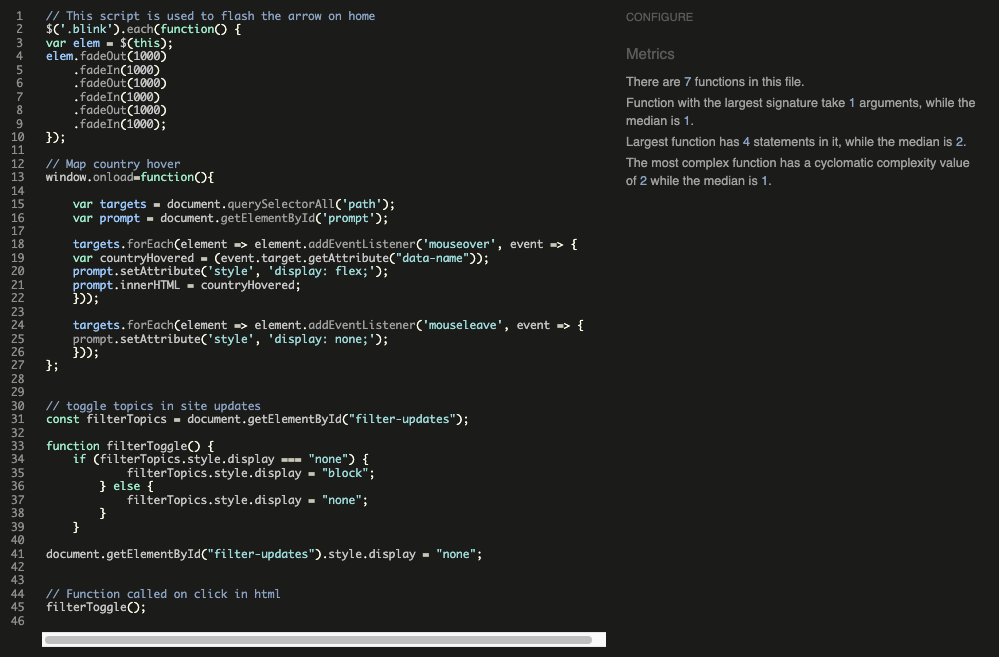
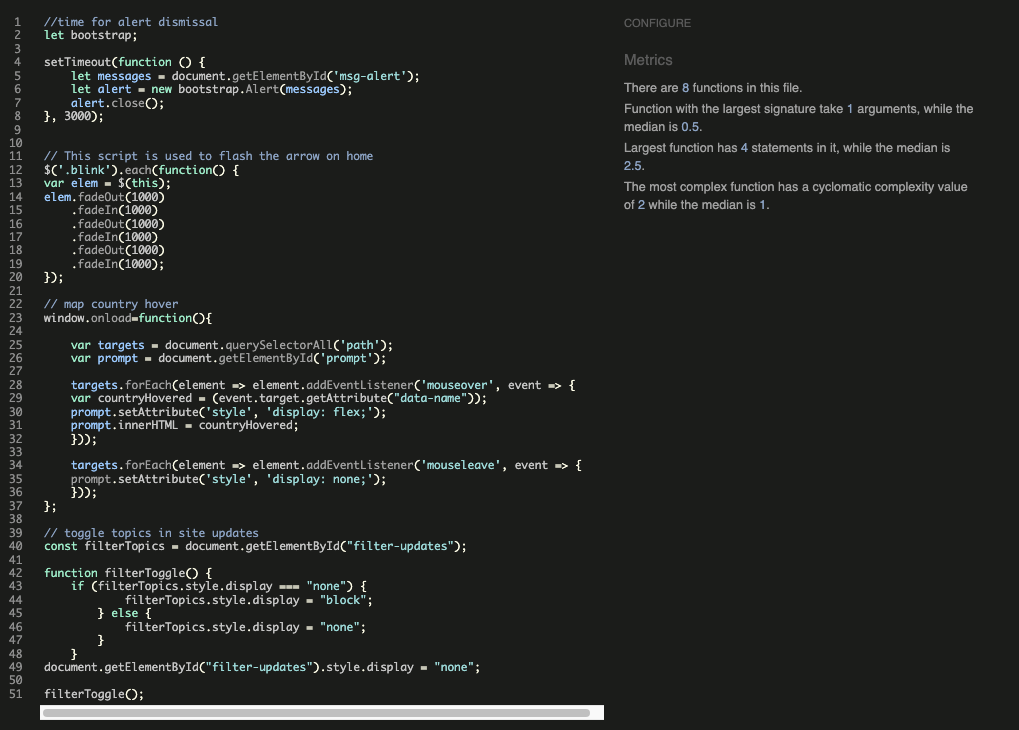
re-test validations following alert instertions

diff --git a/static/js/base.js b/static/js/base.js
@@ -1,4 +1,6 @@
 //time for alert dismissal
+let bootstrap;
+
 setTimeout(function () {
     let messages = document.getElementById('msg-alert');
     let alert = new bootstrap.Alert(messages);

diff --git a/home/views.py b/home/views.py
@@ -39,7 +39,10 @@ def register(request):
             password = form.cleaned_data['password1']
             user = authenticate(username=username, password=password)
             login(request, user)
-            messages.success(request, f"YOUR ACCOUNT AND PROFILE HAVE BEEN CREATED!")
+            messages.success(
+                request,
+                "YOUR ACCOUNT AND PROFILE HAVE BEEN CREATED!"
+                )
             return redirect('travel-home')
     else:
         form = UserRegisterForm()
